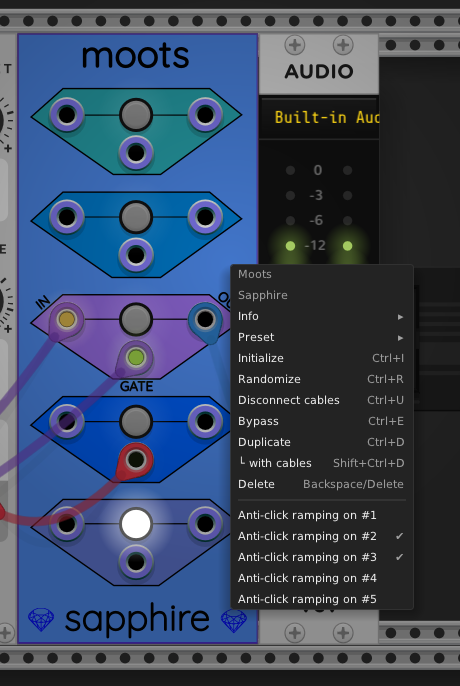
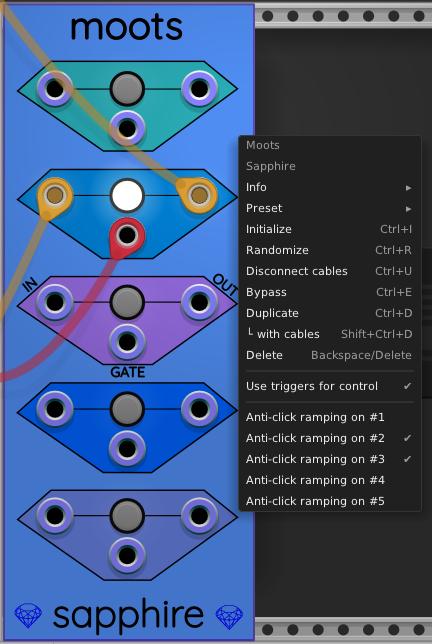
Fixed #44 - Moots can operate in gate mode or trigger mode.
Added an option to the right-click menu to toggle
between using gates or triggers for the control ports.
Gate mode causes Moots to work the same way it always did.
Trigger mode causes Moots to toggle the state of each controller
every time a trigger is received.

diff --git a/src/moots.cpp b/src/moots.cpp
@@ -25,11 +25,11 @@ namespace Sapphire
             INAUDIO3_INPUT,
             INAUDIO4_INPUT,
             INAUDIO5_INPUT,
-            INGATE1_INPUT,
-            INGATE2_INPUT,
-            INGATE3_INPUT,
-            INGATE4_INPUT,
-            INGATE5_INPUT,
+            CONTROL1_INPUT,
+            CONTROL2_INPUT,
+            CONTROL3_INPUT,
+            CONTROL4_INPUT,
+            CONTROL5_INPUT,
             INPUTS_LEN
         };
 
@@ -53,6 +53,12 @@ namespace Sapphire
             LIGHTS_LEN
         };
 
+        enum class ControlMode
+        {
+            Gate,
+            Trigger,
+        };
+
         struct MootsModule : SapphireModule
         {
             static const int NUM_CONTROLLERS = 5;
@@ -61,7 +67,9 @@ namespace Sapphire
             static_assert(NUM_CONTROLLERS == OUTPUTS_LEN,  "Incorrect number of entries in `enum OutputId`");
             static_assert(NUM_CONTROLLERS == LIGHTS_LEN,   "Incorrect number of entries in `enum LightId`");
 
-            bool isGateActive[NUM_CONTROLLERS];
+            ControlMode controlMode = ControlMode::Gate;
+            bool isActive[NUM_CONTROLLERS]{};
+            GateTriggerReceiver controlReceiver[NUM_CONTROLLERS];
             Slewer slewer[NUM_CONTROLLERS];
 
             MootsModule()
@@ -79,11 +87,11 @@ namespace Sapphire
                 configInput(INAUDIO3_INPUT, "Signal 3");
                 configInput(INAUDIO4_INPUT, "Signal 4");
                 configInput(INAUDIO5_INPUT, "Signal 5");
-                configInput(INGATE1_INPUT, "Gate 1");
-                configInput(INGATE2_INPUT, "Gate 2");
-                configInput(INGATE3_INPUT, "Gate 3");
-                configInput(INGATE4_INPUT, "Gate 4");
-                configInput(INGATE5_INPUT, "Gate 5");
+                configInput(CONTROL1_INPUT, "Control 1");
+                configInput(CONTROL2_INPUT, "Control 2");
+                configInput(CONTROL3_INPUT, "Control 3");
+                configInput(CONTROL4_INPUT, "Control 4");
+                configInput(CONTROL5_INPUT, "Control 5");
                 configOutput(OUTAUDIO1_OUTPUT, "Signal 1");
                 configOutput(OUTAUDIO2_OUTPUT, "Signal 2");
                 configOutput(OUTAUDIO3_OUTPUT, "Signal 3");
@@ -96,9 +104,11 @@ namespace Sapphire
 
             void initialize()
             {
+                controlMode = ControlMode::Gate;
                 for (int i = 0; i < NUM_CONTROLLERS; ++i)
                 {
-                    isGateActive[i] = false;
+                    isActive[i] = false;
+                    controlReceiver[i].initialize();
                     slewer[i].reset();
                 }
             }
@@ -125,42 +135,38 @@ namespace Sapphire
 
                 for (int i = 0; i < NUM_CONTROLLERS; ++i)
                 {
-                    auto & gate = inputs[INGATE1_INPUT + i];
+                    auto & control = inputs[CONTROL1_INPUT + i];
 
-                    if (gate.isConnected())
+                    if (control.isConnected())
                     {
-                        // If the gate input is connected, use its polyphonic voltage sum
-                        // to control whether the output is enabled or disabled.
-                        // Debounce the signal using hysteresis like a Schmitt trigger would.
-                        // See: https://vcvrack.com/manual/VoltageStandards#Triggers-and-Gates
-                        const float gv = gate.getVoltageSum();
-                        if (isGateActive[i])
+                        const float gv = control.getVoltageSum();
+                        controlReceiver[i].update(gv);
+                        if (controlMode == ControlMode::Gate)
                         {
-                            if (gv <= 0.1f)
-                                isGateActive[i] = false;
+                            isActive[i] = controlReceiver[i].isGateActive();
                         }
-                        else
+                        else    // trigger mode
                         {
-                            if (gv >= 1.0f)
-                                isGateActive[i] = true;
+                            if (controlReceiver[i].isTriggerActive())
+                                isActive[i] = !isActive[i];
                         }
                     }
                     else
                     {
-                        // When no gate input is connected, allow the manual pushbutton take control.
-                        isGateActive[i] = (params[TOGGLEBUTTON1_PARAM + i].getValue() > 0.0f);
+                        // When no control input is connected, allow the manual pushbutton take control.
+                        isActive[i] = (params[TOGGLEBUTTON1_PARAM + i].getValue() > 0.0f);
                     }
 
                     // When a controller is turned on, make the push-button light bright,
-                    // whether it's active because of the push-button or a gate voltage.
+                    // whether it's active because of the push-button or a control voltage.
                     // When a controller is turned off, use a very dim light, but not
                     // complete darkness. Some users like turning room brightness
                     // down very low, yet they still want to see where all 5 buttons are.
-                    lights[MOOTLIGHT1 + i].setBrightness(isGateActive[i] ? 1.0f : 0.03f);
+                    lights[MOOTLIGHT1 + i].setBrightness(isActive[i] ? 1.0f : 0.03f);
 
                     auto & outp = outputs[OUTAUDIO1_OUTPUT + i];
 
-                    if (slewer[i].update(isGateActive[i]))
+                    if (slewer[i].update(isActive[i]))
                     {
                         auto & inp = inputs[INAUDIO1_INPUT + i];
                         inp.readVoltages(volts);
@@ -175,6 +181,29 @@ namespace Sapphire
                 }
             }
 
+            static const char *FormatControl(ControlMode mode)
+            {
+                switch (mode)
+                {
+                case ControlMode::Trigger:
+                    return "trigger";
+
+                case ControlMode::Gate:
+                default:
+                    return "gate";
+                }
+            }
+
+            static ControlMode ParseControl(const char *text)
+            {
+                if (text != nullptr)
+                {
+                    if (!strcmp(text, "trigger"))
+                        return ControlMode::Trigger;
+                }
+                return ControlMode::Gate;
+            }
+
             json_t* dataToJson() override
             {
                 // Persist the audio slewing checkbox states.
@@ -185,6 +214,7 @@ namespace Sapphire
                     json_array_append_new(flagList, json_boolean(slewer[i].isEnabled()));
 
                 json_object_set_new(root, "slew", flagList);
+                json_object_set_new(root, "controlMode", json_string(FormatControl(controlMode)));
                 return root;
             }
 
@@ -209,6 +239,10 @@ namespace Sapphire
                         }
                     }
                 }
+
+                json_t* cmode = json_object_get(root, "controlMode");
+                const char *text = json_string_value(cmode);
+                controlMode = ParseControl(text);
             }
 
             void onBypass(const BypassEvent& e) override
@@ -249,11 +283,11 @@ namespace Sapphire
                 addInput(createInputCentered<SapphirePort>(mm2px(Vec(10.50,  81.75)), module, INAUDIO4_INPUT));
                 addInput(createInputCentered<SapphirePort>(mm2px(Vec(10.50, 103.25)), module, INAUDIO5_INPUT));
 
-                addInput(createInputCentered<SapphirePort>(mm2px(Vec(25.05,  25.25)), module, INGATE1_INPUT));
-                addInput(createInputCentered<SapphirePort>(mm2px(Vec(25.05,  46.75)), module, INGATE2_INPUT));
-                addInput(createInputCentered<SapphirePort>(mm2px(Vec(25.05,  68.25)), module, INGATE3_INPUT));
-                addInput(createInputCentered<SapphirePort>(mm2px(Vec(25.05,  89.75)), module, INGATE4_INPUT));
-                addInput(createInputCentered<SapphirePort>(mm2px(Vec(25.05, 111.25)), module, INGATE5_INPUT));
+                addInput(createInputCentered<SapphirePort>(mm2px(Vec(25.05,  25.25)), module, CONTROL1_INPUT));
+                addInput(createInputCentered<SapphirePort>(mm2px(Vec(25.05,  46.75)), module, CONTROL2_INPUT));
+                addInput(createInputCentered<SapphirePort>(mm2px(Vec(25.05,  68.25)), module, CONTROL3_INPUT));
+                addInput(createInputCentered<SapphirePort>(mm2px(Vec(25.05,  89.75)), module, CONTROL4_INPUT));
+                addInput(createInputCentered<SapphirePort>(mm2px(Vec(25.05, 111.25)), module, CONTROL5_INPUT));
 
                 addOutput(createOutputCentered<SapphirePort>(mm2px(Vec(39.60,  17.25)), module, OUTAUDIO1_OUTPUT));
                 addOutput(createOutputCentered<SapphirePort>(mm2px(Vec(39.60,  38.75)), module, OUTAUDIO2_OUTPUT));
@@ -264,13 +298,35 @@ namespace Sapphire
 
             void appendContextMenu(Menu* menu) override
             {
+                if (mootsModule == nullptr)
+                    return;
+
+                //---------------------------------------------------------------------------
+                // Gate/Trigger control mode toggle
+
                 menu->addChild(new MenuSeparator);
 
+                menu->addChild(createBoolMenuItem(
+                    "Use triggers for control",
+                    "",
+                    [=]()
+                    {
+                        return mootsModule->controlMode == ControlMode::Trigger;
+                    },
+                    [=](bool state)
+                    {
+                        mootsModule->controlMode = state ? ControlMode::Trigger : ControlMode::Gate;
+                    }
+                ));
+
+                //---------------------------------------------------------------------------
                 // Add the 5 menu items for anti-clicking ramping.
+
+                menu->addChild(new MenuSeparator);
 
                 for (int i = 0; i < MootsModule::NUM_CONTROLLERS; ++i)
                 {
-                    ui::MenuItem *item = createBoolMenuItem(
+                    menu->addChild(createBoolMenuItem(
                         "Anti-click ramping on #" + std::to_string(i+1),
                         "",
                         [=]()
@@ -281,13 +337,11 @@ namespace Sapphire
                         {
                             Slewer& s = mootsModule->slewer[i];
                             if (state)
-                                s.enable(mootsModule->isGateActive[i]);
+                                s.enable(mootsModule->isActive[i]);
                             else
                                 s.reset();
                         }
-                    );
-
-                    menu->addChild(item);
+                    ));
                 }
             }
         };

diff --git a/src/plugin.hpp b/src/plugin.hpp
@@ -406,29 +406,44 @@ namespace Sapphire
     private:
         float prevVoltage{};
         bool gate{};
+        bool trigger{};
 
     public:
+        bool isGateActive() const { return gate; }
+        bool isTriggerActive() const { return trigger; }
+
         void initialize()
         {
             prevVoltage = 0;
             gate = false;
+            trigger = false;
+        }
+
+        void update(float voltage)
+        {
+            trigger = false;
+            if (prevVoltage < 1.0f && voltage >= 1.0f)
+            {
+                trigger = !gate;
+                gate = true;
+            }
+            else if (prevVoltage >= 0.1f && voltage < 0.1f)
+            {
+                gate = false;
+            }
+            prevVoltage = voltage;
         }
 
         bool updateGate(float voltage)
         {
-            if (prevVoltage < 1.0f && voltage >= 1.0f)
-                gate = true;
-            else if (prevVoltage >= 0.1f && voltage < 0.1f)
-                gate = false;
-            prevVoltage = voltage;
+            update(voltage);
             return gate;
         }
 
         bool updateTrigger(float voltage)
         {
-            bool prevGate = gate;
-            updateGate(voltage);
-            return gate && !prevGate;   // a trigger occurs on the rising edge of a gate
+            update(voltage);
+            return trigger;
         }
     };
 

diff --git a/Moots.md b/Moots.md
@@ -16,20 +16,28 @@ but differs in the following ways:
   controls instead of the 10 that VCV Mutes has.
 
 * Each Moots control has a push-button like VCV Mutes does,
-  but it also has a gate input that allows replacing the button with
-  a control voltage.
+  but it also has a control port that allows replacing the button with
+  a control voltage: either a gate or a trigger.
 
-When there is no cable connected to a gate input,
+When there is no cable connected to the control port,
 the manual push-button takes control.
-But when there is a cable connected to a control's gate,
-the control connects the input to the output when the
-gate voltage is +1.0 volts or higher. When the gate voltage
-drops below +0.1 volts, the output cable acts like it is
-unplugged.
+But when there is a cable connected to the control port,
+the control connects the input using either gate logic or
+trigger logic, depending on the option "Use triggers for control"
+in the right-click context menu (see [Moots Configuration](#moots-configuration)).
 
-To help filter signal jitter, the state stays the same
+In **gate mode**, the input connects to the output when the
+control voltage is +1.0 volts or higher. When the control voltage
+drops below +0.1 volts, the output cable acts like it is
+unplugged. To help filter signal jitter, the state stays the same
 when the gate voltage is between +0.1V and +1.0V.
 In other words, Schmitt trigger logic is applied.
+
+In **trigger mode**, a trigger alternately toggles the state between
+connected and disconnected. The same levels apply: a trigger fires
+when voltage ascends through +1.0 volts. The trigger will not
+fire again until the voltage descends through +0.1 volts and back
+up through +1.0 volts again.
 
 A polyphonic cable connected to a gate has all
 of its channel voltages added together, and the +0.1V/+1.0V rules

diff --git a/CHANGELOG.md b/CHANGELOG.md
@@ -9,6 +9,17 @@
 </tr>
 
 <tr valign="top">
+<td align="center">18 Mar 2024</td>
+<td align="center">2.4.3</td>
+<td align="left">
+    <ul>
+        <li>Moots: added right-click menu option to toggle between the control port using a gate signal (default) or a trigger-toggle signal.</li>
+    </ul>
+</td>
+</tr>
+
+
+<tr valign="top">
 <td align="center">3 Mar 2024</td>
 <td align="center">2.4.2</td>
 <td align="left">
